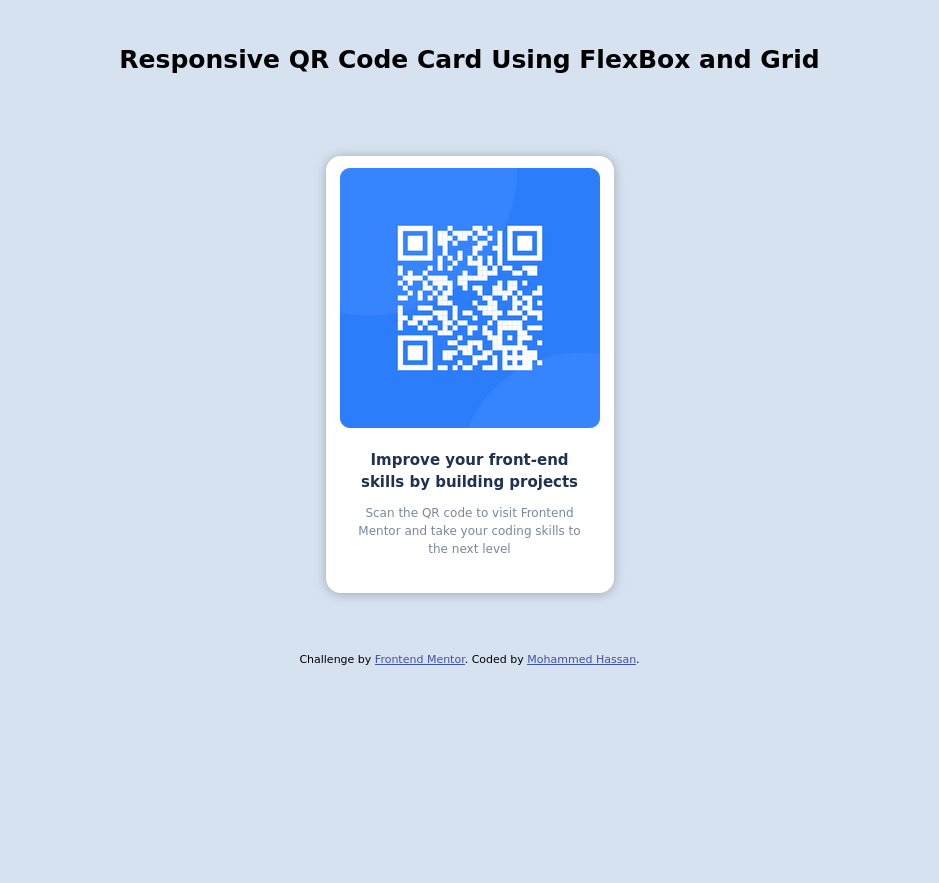
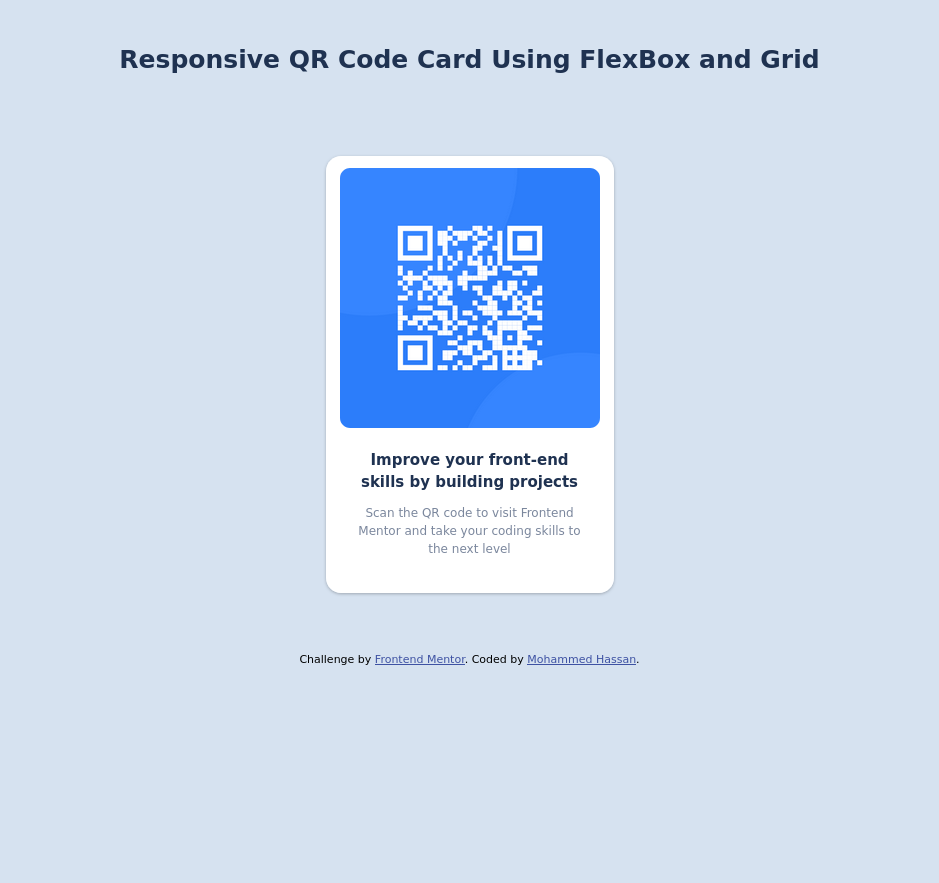
Update styles.css, screenshot.png, and style.scss

Changed region(s): [[0.1235, 0.0306, 0.8647, 0.0917]]

diff --git a/dist/styles.css b/dist/styles.css
@@ -115,9 +115,9 @@ body {
   padding-bottom: 30px;
   flex-basis: 18em;
   background-color: hsl(0, 0%, 100%);
-  box-shadow: 0px 1px 10px 0px rgba(0, 0, 0, 0.25);
-  -webkit-box-shadow: 0px 1px 10px 0px rgba(0, 0, 0, 0.25);
-  -moz-box-shadow: 0px 1px 10px 0px rgba(0, 0, 0, 0.25);
+  box-shadow: 0px 1px 2px 0px rgba(0, 0, 0, 0.25);
+  -webkit-box-shadow: 0px 1px 2px 0px rgba(0, 0, 0, 0.25);
+  -moz-box-shadow: 0px 1px 2px 0px rgba(0, 0, 0, 0.25);
 }
 .card__img {
   border-radius: 10px;

diff --git a/styles/style.scss b/styles/style.scss
@@ -40,9 +40,9 @@
   background-color: hsl(0, 0%, 100%);
 
 
-  box-shadow: 0px 1px 10px 0px rgba(0,0,0,0.25);
-  -webkit-box-shadow: 0px 1px 10px 0px rgba(0,0,0,0.25);
-  -moz-box-shadow: 0px 1px 10px 0px rgba(0,0,0,0.25);
+  box-shadow: 0px 1px 2px 0px rgba(0,0,0,0.25);
+  -webkit-box-shadow: 0px 1px 2px 0px rgba(0,0,0,0.25);
+  -moz-box-shadow: 0px 1px 2px 0px rgba(0,0,0,0.25);
 
   &__img {
     border-radius: 10px;
